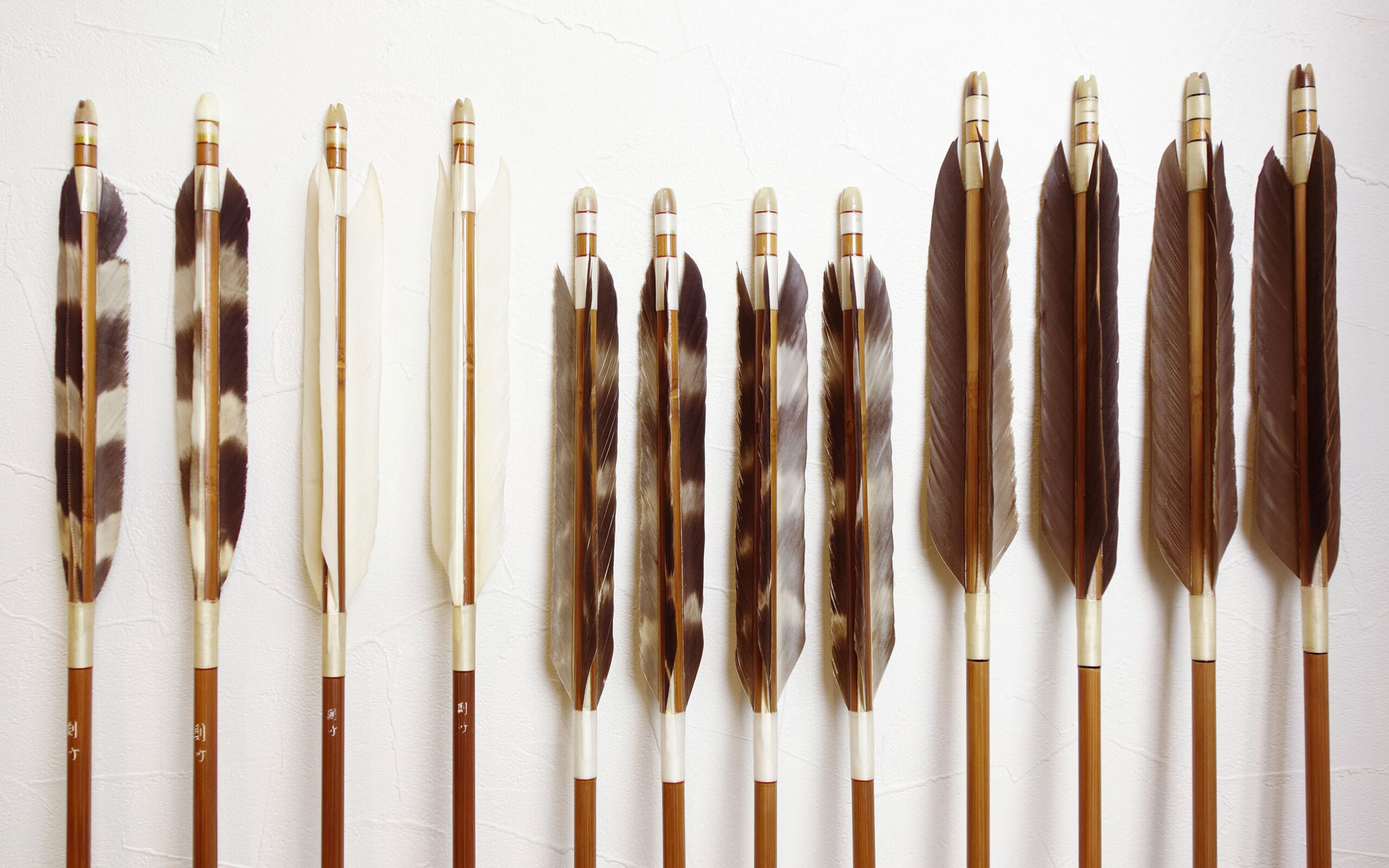
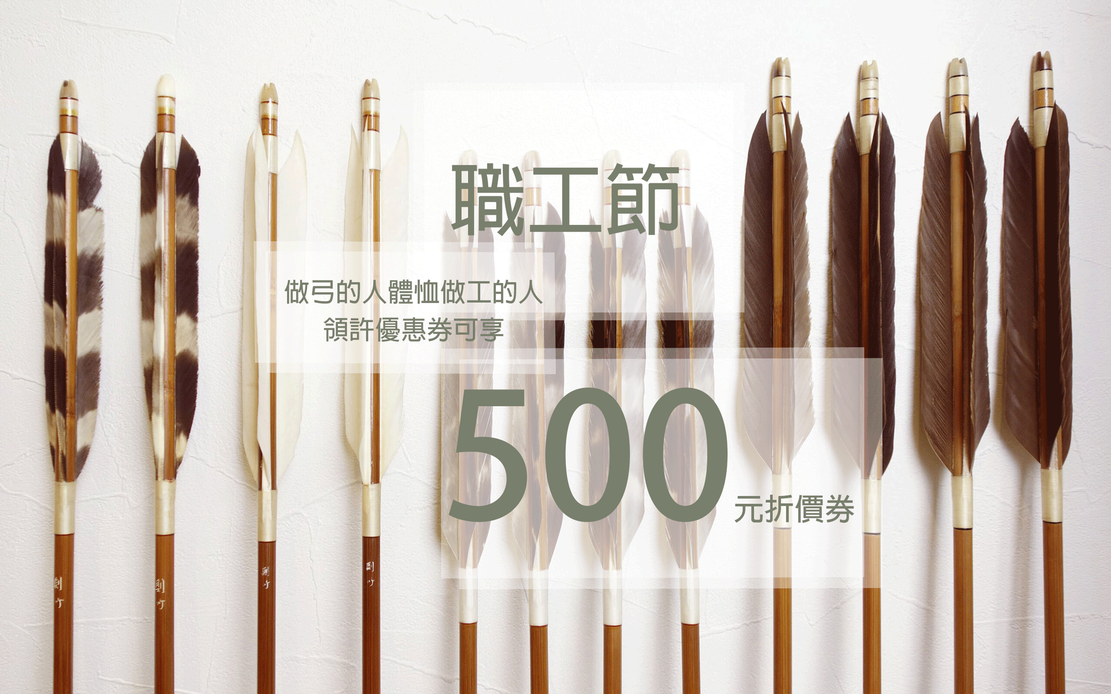
加上滑鼠icon/做了產品DM/修改未登入無法收藏

diff --git a/client/src/components/mouse-icon2.js b/client/src/components/mouse-icon2.js
@@ -1,0 +1,56 @@
+import React, { useState, useEffect } from "react";
+import { BsHeartArrow } from 'react-icons/bs';
+
+// This functional component represents a custom cursor with a flare effect.
+function FlareCursor() {
+  // State to track the current cursor position (x, y coordinates).
+  const [position, setPosition] = useState({ x: 0, y: 0 });
+
+  // State to track whether the cursor is over a clickable element.
+  const [isPointer, setIsPointer] = useState(false);
+
+  // Event handler for the mousemove event.
+  const handleMouseMove = (e) => {
+    // Update the cursor position based on the mouse coordinates.
+    setPosition({ x: e.clientX, y: e.clientY });
+
+    // Get the target element that the cursor is currently over.
+    const target = e.target;
+
+    // Check if the cursor is over a clickable element by inspecting the cursor style.
+    setIsPointer(
+      window.getComputedStyle(target).getPropertyValue("cursor") === "pointer"
+    );
+  };
+
+  // Set up an effect to add and remove the mousemove event listener.
+  useEffect(() => {
+    window.addEventListener("mousemove", handleMouseMove);
+    return () => {
+      window.removeEventListener("mousemove", handleMouseMove);
+    };
+  }, []); // The empty dependency array ensures that this effect runs only once on mount.
+
+  // Calculate the size of the flare based on whether the cursor is over a clickable element.
+  const flareSize = isPointer ? 0 : 30;
+
+  // Adjust the cursor position to create a visual effect when over a clickable element.
+  const cursorStyle = isPointer ? { left: "-100px", top: "-100px" } : {};
+
+  // Render the custom cursor element with dynamic styles based on cursor state.
+  return (
+    <BsHeartArrow
+      className={`flare ${isPointer ? "pointer" : ""}`}
+      style={{
+        ...cursorStyle,
+        left: `${position.x}px`,
+        top: `${position.y}px`,
+        width: `${flareSize}px`,
+        height: `${flareSize}px`,
+      }}
+    ></BsHeartArrow>
+  );
+}
+
+// Export the FlareCursor component to be used in other parts of the application.
+export default FlareCursor;

diff --git a/client/src/components/mouse-icon.js b/client/src/components/mouse-icon.js
@@ -1,0 +1,56 @@
+import { useState, useEffect } from 'react';
+import { BsHeartArrow } from 'react-icons/bs';
+
+const MouseIcon = () => {
+  const [position, setPosition] = useState({ x: 0, y: 0 });
+  const [arrowAngle, setArrowAngle] = useState(0);
+  const [isFollowing, setIsFollowing] = useState(false);
+
+  useEffect(() => {
+    let timeoutId;
+    const delay = 500; // 延迟时间，单位毫秒
+
+    const handleMouseMove = (e) => {
+      const { clientX, clientY } = e;
+
+      if (!isFollowing) {
+        clearTimeout(timeoutId);
+        timeoutId = setTimeout(() => {
+          setIsFollowing(true);
+        }, delay);
+      }
+
+      const newX = clientX + 20; // 调整X坐标来放在右侧
+      const newY = clientY + 20; // 调整Y坐标来放在下方
+      setPosition({ x: newX, y: newY });
+
+      // 计算箭头部分的旋转角度
+      const deltaX = newX - position.x;
+      const deltaY = newY - position.y;
+      const angle = (Math.atan2(deltaY, deltaX) * 180) / Math.PI;
+      setArrowAngle(angle);
+    };
+
+    window.addEventListener("mousemove", handleMouseMove);
+
+    return () => {
+      window.removeEventListener("mousemove", handleMouseMove);
+      clearTimeout(timeoutId);
+    };
+  }, [position.x, position.y, isFollowing]);
+
+  return (
+    <div
+      style={{
+        position: 'fixed',
+        left: position.x + 'px',
+        top: position.y + 'px',
+        transition: 'transform 0.2s ease',
+      }}
+    >
+      {/* 在这里放置你想要显示的图标 */}
+      <BsHeartArrow />    </div>
+  );
+};
+
+export default MouseIcon;

diff --git a/client/src/styles/components/mouse-icon2.scss b/client/src/styles/components/mouse-icon2.scss
@@ -1,0 +1,24 @@
+.flare {
+  font-size: 18px;
+  position: fixed;
+  border-radius: 50%;
+  // mix-blend-mode: screen;
+  pointer-events: none;
+  color: $accent;
+  transform: translate(-35%, -5%) rotate(250deg);
+  z-index: 999999999 !important ;
+  // transition: width 0.2s ease-in-out, height 0.2s ease-in-out;
+  cursor: none !important; /* Let's hide the default cursor so it looks way better */
+}
+
+/* We need to remove this custom cursor in mobile devices */
+@media screen and (max-width: 768px) {
+  .flare {
+    width: 0;
+    height: 0;
+    // transition: width 0.2s ease-in-out, height 0.2s ease-in-out,
+  }
+}
+.flare.pointer {
+  // transition: width 0.2s ease-in-out, height 0.2s ease-in-out;
+}

diff --git a/client/src/pages/_app.js b/client/src/pages/_app.js
@@ -5,6 +5,7 @@ import { AuthProviderJWT } from "@/hooks/use-auth-jwt";
 import { ProductProvider } from "@/hooks/use-product-context";
 import Loading from "@/components/loading";
 import { useRouter } from "next/router";
+import FlareCursor from "@/components/mouse-icon2";
 
 function MyApp({ Component, pageProps }) {
   const router = useRouter();
@@ -39,6 +40,8 @@ function MyApp({ Component, pageProps }) {
     <>
       <AuthProviderJWT>
         <ProductProvider>
+        <FlareCursor/>
+        {/* <MouseIcon/> */}
         {isLoading && <Loading />}
         {getLayout(<Component {...pageProps} />)}
         </ProductProvider>

diff --git a/client/src/pages/course/[cid].js b/client/src/pages/course/[cid].js
@@ -138,6 +138,20 @@ export default function CourseDetail() {
    }
 
    const handleTriggerCourseFav = async (id) => {
+    if(!authJWT.isAuth){
+      Swal.fire({
+        icon: 'error',
+        title: '請先登入',
+        showConfirmButton: false,
+        timer: 1500,
+        backdrop: `rgba(255, 255, 255, 0.55)`,
+        width: '35%',
+        padding: '0 0 3.25em',
+        customClass: {
+        }
+      })
+      return
+    }
      // 在陣列中->移出，不在陣列中加入
      console.log('id=',id);
      if (favoriteCourses.includes(id)) {

diff --git a/client/src/pages/product/[pid].js b/client/src/pages/product/[pid].js
@@ -91,6 +91,20 @@ function Pid() {
   }
 
   const handleTriggerProductFav = async (id) => {
+    if(!authJWT.isAuth){
+      Swal.fire({
+        icon: 'error',
+        title: '請先登入',
+        showConfirmButton: false,
+        timer: 1500,
+        backdrop: `rgba(255, 255, 255, 0.55)`,
+        width: '35%',
+        padding: '0 0 3.25em',
+        customClass: {
+        }
+      })
+      return
+    }
     // 在陣列中->移出，不在陣列中加入
     // console.log(id);
       // 未登入時，會出現請先登入的內容

diff --git a/client/src/styles/_global.scss b/client/src/styles/_global.scss
@@ -42,6 +42,7 @@ body{
   margin: 0  !important ;
   padding: 0 !important;
   box-sizing: border-box;
+  cursor: none;
 }
 //手機端
 @media (max-width: 393px) {

diff --git a/client/src/styles/_components.scss b/client/src/styles/_components.scss
@@ -68,3 +68,4 @@
 
 // Loading 畫面
 @import"./components/loading/loading.scss";
+@import"./components/mouse-icon2";
